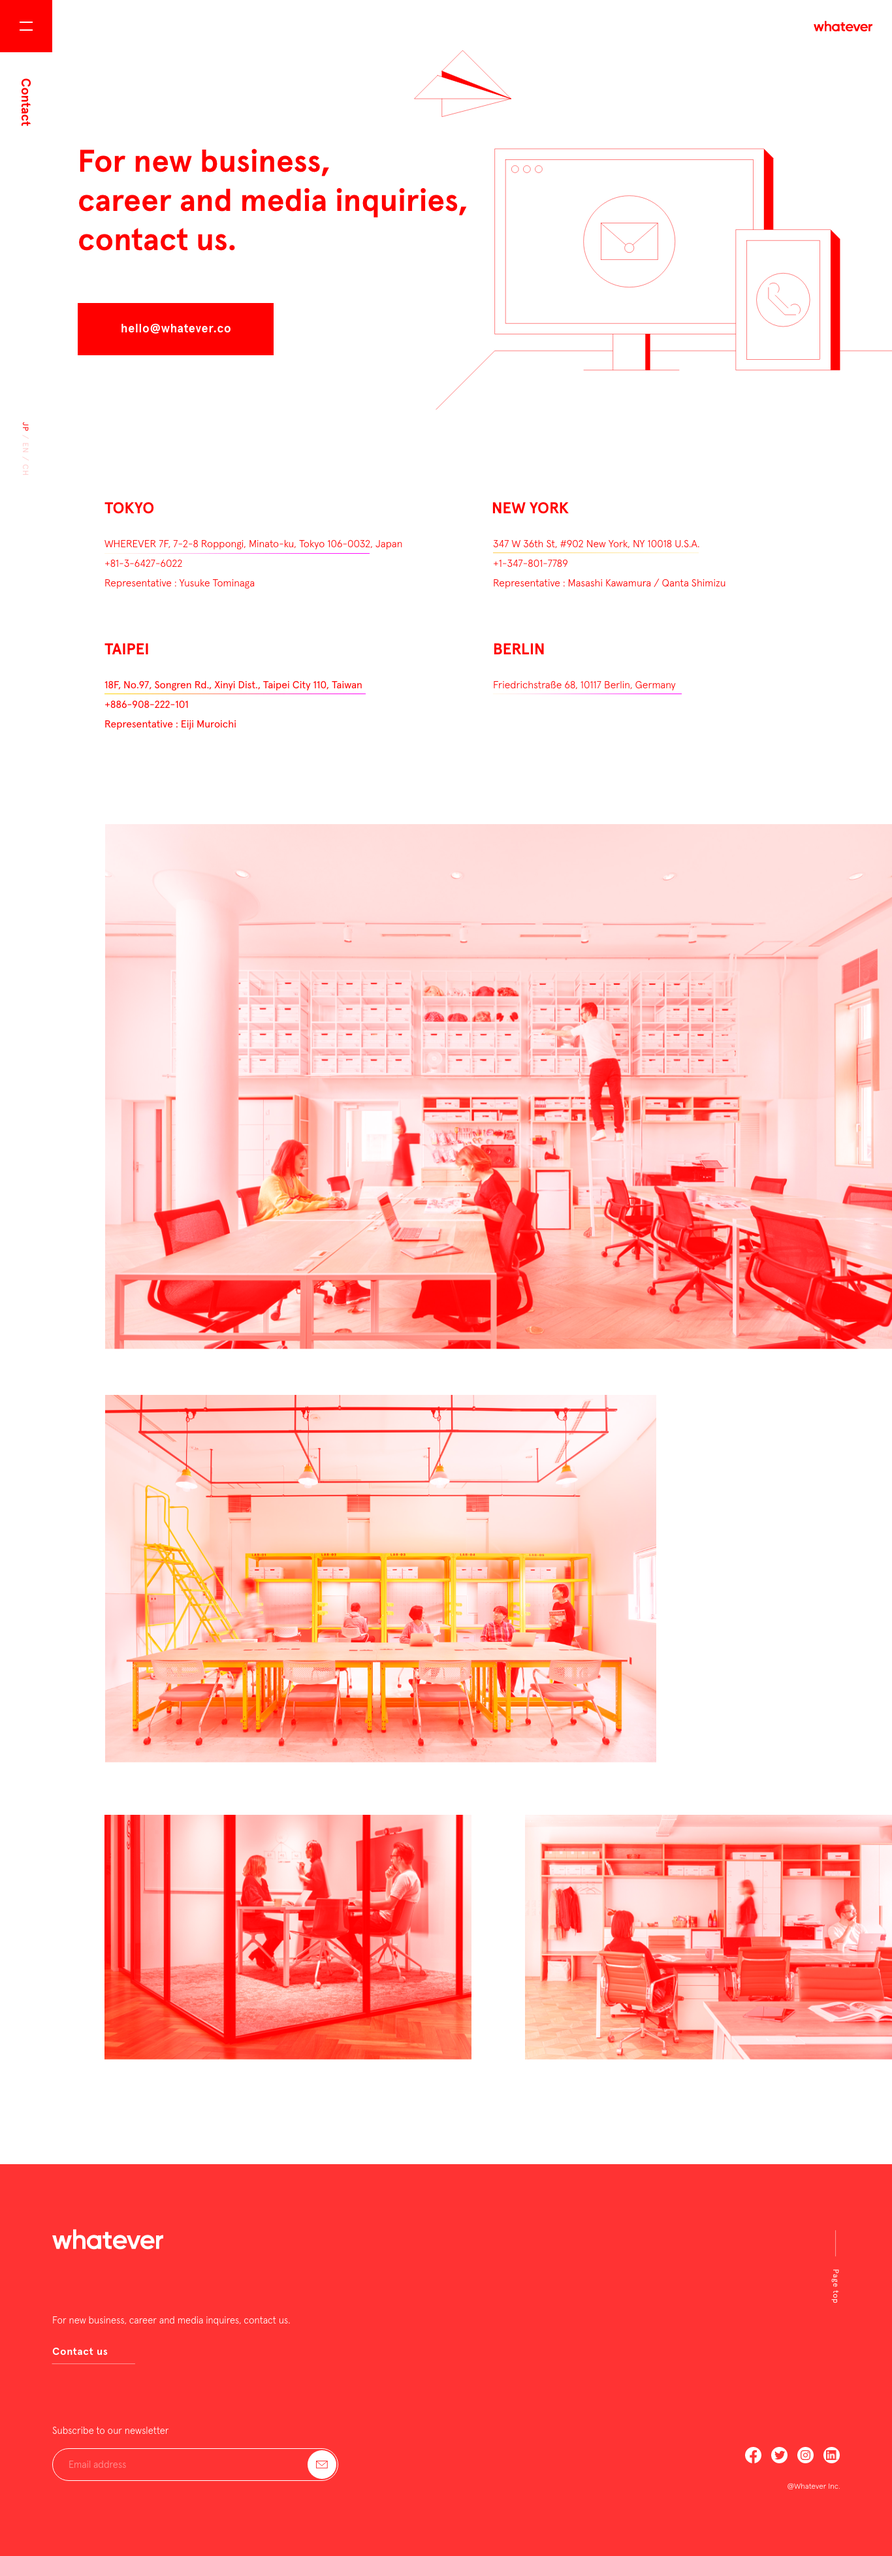
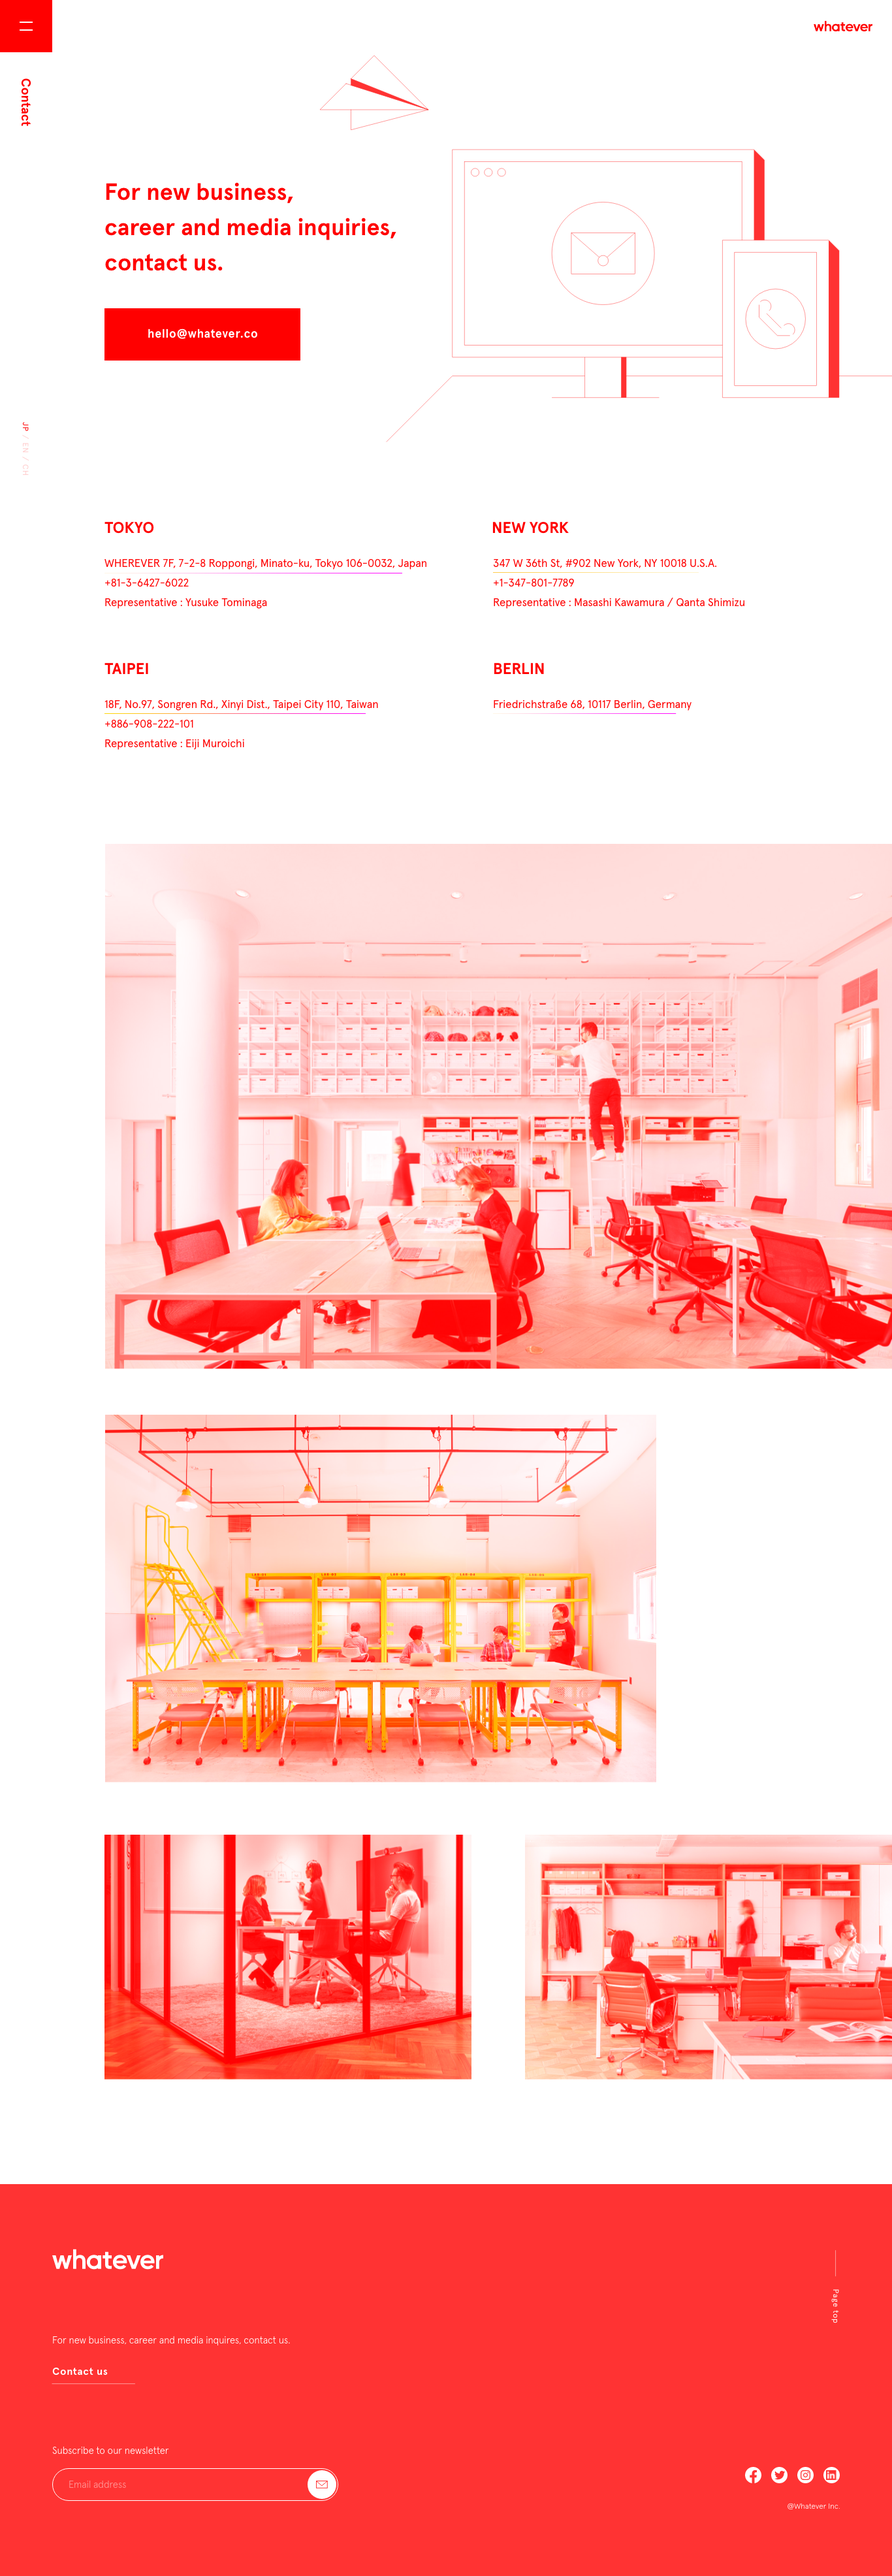
Effects for Contact

diff --git a/pages/contact.tsx b/pages/contact.tsx
@@ -1,13 +1,16 @@
 import { GetStaticProps } from 'next'
 import { t, langStyle } from 'lib/i18n'
 import Layout from 'components/Layout'
+import BlackButton from 'components/BlackButton'
 import { Grad, GradImg, GradLink } from 'components/Grad'
 
 const Head = () => (
-  <div className={langStyle('head')}>
-    <img src="/contact/pict04.svg" alt="" />
-    {t('contact_title')?.split('\n').map((line, index) => <Grad key={index}><div>{line}</div></Grad>)}
-    <div className="mailto"><GradImg><a href="mailto:hello@whatever.co">hello@whatever.co</a></GradImg></div>
+  <>
+    <div className={langStyle('head')}>
+      <div className="image"><GradImg lighten={true}><img src="/contact/pict04.svg" alt="" /></GradImg></div>
+      {t('contact_title')?.split('\n').map((line, index) => <div key={index}><Grad className="title" key={index}>{line}</Grad></div>)}
+      <div className="mailto"><BlackButton width="300px" height="80px" link="mailto:hello@whatever.co">hello@whatever.co</BlackButton></div>
+    </div>
     <style jsx>{`
       @import 'lib/vw.styl'
       .head
@@ -15,72 +18,60 @@ const Head = () => (
         margin-top vwpx(189)
         margin-left vwpx(80)
         font-size 0
-        >img
+        .image
           position absolute
           top vwpx(-184)
           right vwpx(-24)
-          width vwpx(900)
-        div
-          display inline-block
+          background-color white
+          img
+            width vwpx(900)
+        :global(.title)
+          position relative
           font-size vwpx(30)
           font-weight bold
           line-height vwpx(52)
+          mix-blend-mode multiply
       .mailto
-        width vwpx(300)
-        height vwpx(80)
         margin-top vwpx(47)
-        background-color black
-        a
-          display flex
-          justify-content center
-          align-items center
-          width vwpx(300)
-          height vwpx(80)
-          font-size vwpx(18)
-          font-weight bold
-          letter-spacing 0.04em
-          color white
-          border none
-          padding 0
       .en
-        &.head
-          div
-            font-size vwpx(48)
+        &.head :global(.title)
+          font-size vwpx(36)
+          line-height vwpx(54)
+        .mailto
+          margin-top vwpx(41)
     `}</style>
-  </div>
+  </>
 )
 
 const Address = ({ data }: { data: any }) => (
-  <div className="container">
-    <Grad><h2 className="region">{data.name}</h2></Grad>
-    <div className="address"><GradLink className="address" href={data.maplink} target="_blank" rel="noopener noreferrer">{data.address}</GradLink></div>
-    {data.phone != '-' ? <Grad><div className="phone">{data.phone}</div></Grad> : null}
-    {data.representative != '-' ? <Grad><div className="repr">{data.representative}</div></Grad> : null}
+  <>
+    <div className="container">
+      <div><Grad className="region">{data.name}</Grad></div>
+      <div className="address"><GradLink href={data.maplink} target="_blank" rel="noopener noreferrer">{data.address}</GradLink></div>
+      {data.phone != '-' ? <div><Grad className="phone">{data.phone}</Grad></div> : null}
+      {data.representative != '-' ? <div><Grad className="repr">{data.representative}</Grad></div> : null}
+    </div>
     <style jsx>{`
       @import 'lib/vw.styl'
       .container
         font-size 0
-      .region
-        display inline-block
-        font-size vwpx(24)
-        font-weight bold
-        margin-bottom vwpx(34)
-      .address
-        display inline-block
-        font-size 1.5rem
-        line-height 1em
-        margin-bottom 6px
-      .phone
-        display inline-block
-        font-size 1.5rem
-        line-height 1em
-        margin-bottom 16px
-      .repr
-        display inline-block
-        font-size 1.5rem
-        line-height 1em
+        :global(.region)
+          font-size vwpx_min(24)
+          font-weight bold
+          margin-bottom vwpx_min(34)
+        .address
+          font-size var(--font-size-ja)
+          line-height 1em
+          margin-bottom 0.6rem
+        :global(.phone)
+          font-size var(--font-size-ja)
+          line-height 1em
+          margin-bottom 1.6rem
+        :global(.repr)
+          font-size var(--font-size-ja)
+          line-height 1em
     `}</style>
-  </div>
+  </>
 )
 
 const ContactPage = () => {
@@ -98,11 +89,11 @@ const ContactPage = () => {
         {addresses.map((data: any) => <Address key={data.name} data={data} />)}
       </div>
       <div className="images">
-        <img src="/contact/whatever_7F_002@2x.jpg" alt="" className="i1" />
-        <img src="/contact/whatever_6F_004@2x.jpg" alt="" className="i2" />
+        <div className="i1"><GradImg><img src="/contact/whatever_7F_002@2x.jpg" alt="" /></GradImg></div>
+        <div className="i2"><GradImg><img src="/contact/whatever_6F_004@2x.jpg" alt="" /></GradImg></div>
         <div className="row">
-          <img src="/contact/whatever_4F_005@2x.jpg" alt="" className="i3" />
-          <img src="/contact/whatever_3F_004@2x.jpg" alt="" className="i4" />
+          <div className="i3"><GradImg><img src="/contact/whatever_4F_005@2x.jpg" alt="" /></GradImg></div>
+          <div className="i4"><GradImg><img src="/contact/whatever_3F_004@2x.jpg" alt="" /></GradImg></div>
         </div>
       </div>
       <style jsx>{`
@@ -119,12 +110,13 @@ const ContactPage = () => {
           margin-top vwpx(64)
           margin-left vwpx(80)
           margin-bottom vwpx(200)
+          img
+            width 100%
           .row
             display flex
             justify-content space-between
           .i1
-            width vwpx(1205)
-            float right
+            width vwpx(1206)
           .i2
             width vwpx(844)
             margin-top vwpx(70)

diff --git a/components/Grad.tsx b/components/Grad.tsx
@@ -310,11 +310,12 @@ export const GradLink = ({ children, href, target, rel }: any) => {
     }).observe(base)
   }, [])
   return (
-    <div ref={ref} className="container">
-      <a className="link" href={href} target={target} rel={rel}>{children}</a>
-
+    <>
+      <div ref={ref} className="grad-link">
+        <a className="link" href={href} target={target} rel={rel}>{children}</a>
+      </div>
       <style jsx>{`
-        .container
+        .grad-link
           overflow hidden
         .link
           display inline-block
@@ -328,6 +329,6 @@ export const GradLink = ({ children, href, target, rel }: any) => {
             -webkit-background-clip text
             -webkit-text-fill-color transparent
       `}</style>
-    </div>
+    </>
   )
 }
